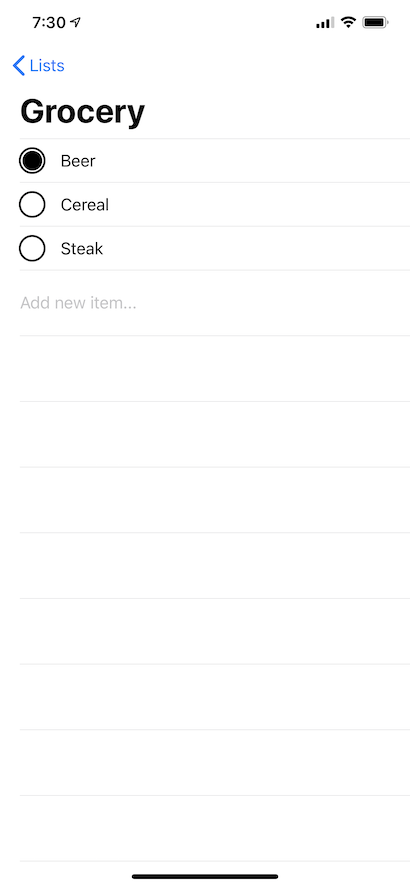
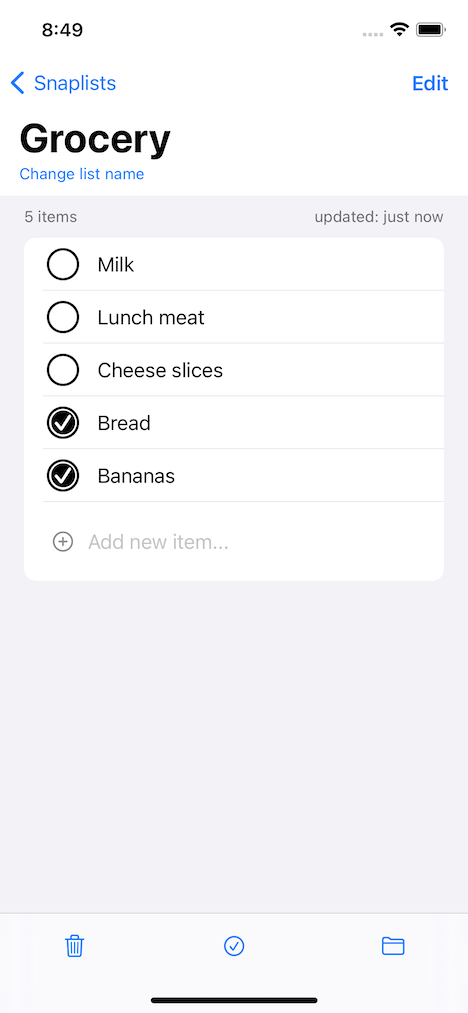
Updated Readme & images.

diff --git a/README.md b/README.md
@@ -1,10 +1,11 @@
-# Simplists
-A simple shopping list app for iOS &amp; watchOS. Its goal is an easy-to-use list app for the Apple Watch.
+# Snaplists
+A simple list-making app for iOS &amp; watchOS. Its goal is an easy-to-use list app for the Apple Watch.
 
-The app uses Core Data locally and CloudKit to sync data across Apple Watch and iOS devices.  The UI is built with SwiftUI.
+The app uses **Core Data** and **CloudKit** to sync data across Apple Watch and iOS devices.  The UI is built with **SwiftUI**.
 
-**Important:** This app was developed with Xcode 12 beta. It will not build successfully with previous versions of Xcode.
+The app is available in the **App Store** as a free download. There is an in-app purchase to unlock all functionality.
 
+[![App Store link](Download_on_the_App_Store_Badge_US-UK_RGB_blk_092917.svg)](https://apps.apple.com/us/app/snaplists-simple-lists-app/id1527429580)
 
 Apple Watch:
 
@@ -19,8 +20,3 @@ iPhone:
 iPad:
 
 ![iPad screenshot](iPad.PNG)
-
-
-Mac:
-
-![Mac screenshot](Mac.PNG)
